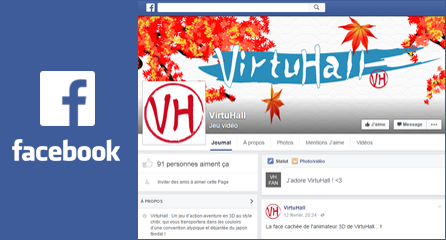
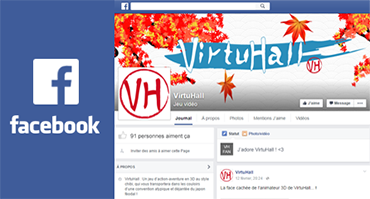
community

diff --git a/css/community.css b/css/community.css
@@ -85,6 +85,25 @@ h1 {
   margin-top: 1.5em;
   margin-bottom: 3em;
 }
+.main .sn-divs .sn-container {
+  display: inline-block;
+}
+.main .sn-divs .fb {
+  background-image: url('../assets/images/commu/fb-page.png');
+  background-size: contain;
+  background-repeat: no-repeat;
+  background-position: center;
+  width: 370px;
+  height: 199px;
+  display: inherit;
+}
+.main .sn-divs .img-hov {
+  position: relative;
+  background-color: dimgray;
+  width: 370px;
+  height: 199px;
+  display: none;
+}
 .main .sn-divs > div {
   margin-bottom: 2.1em;
   padding-right: 1.5em;

diff --git a/less/community.less b/less/community.less
@@ -35,6 +35,31 @@ h1{
 	.sn-divs{
 		margin-top: 1.5em;
 		margin-bottom: 3em;
+		
+		.sn-container{
+			display: inline-block;
+		}
+		
+		.fb{
+			background-image: url('../assets/images/commu/fb-page.png');
+			background-size: contain;
+			background-repeat: no-repeat;
+			background-position: center;
+			width: 370px;
+			height: 199px;
+			display: inherit;
+		}
+		
+		.img-hov{
+			position: relative;
+			background-color: dimgray;
+			width: 370px;
+			height: 199px;
+			display: none;
+
+		}
+
+		
 		&>div{
 			margin-bottom: 2.1em;
 			padding-right: 1.5em;

diff --git a/community.php b/community.php
@@ -35,21 +35,31 @@
 				<h2>Réseaux sociaux</h2>
 				<!-- LEFT -->
 				<section class="sn-divs column large-5">
-					<div>
-						<a href="https://www.facebook.com/VirtuHall-751664391636022/?fref=ts"><img src="assets/images/commu/fb-page-no-border.png" alt="Lien vers la page facebook de VirtuHall"></a>
+					<div class="sn-container">
+						<a href="https://www.facebook.com/VirtuHall-751664391636022/?fref=ts" class="fb">
+						<div class="img-hov"><p>Accéder à la page FB</p></div>
+					</a>
 					</div>
-					<div>
-						<img src="assets/images/commu/snap-page-no-border.png" alt="Rechercher le nom Virtuhall pour l'ajouter à vos contacts Snapchat">
+
+					<div class="sn-container">
+						<a href="https://www.facebook.com/VirtuHall-751664391636022/?fref=ts" class="fb">
+						<div class="img-hov"><p>Accéder à la page FB</p></div>
+					</a>
 					</div>
 				</section>
 
 				<!-- RIGHT -->
-				<section class="sn-divs column large-5">
-					<div>
-						<a href="https://twitter.com/virtuhall_game"><img src="assets/images/commu/twitter-page-no-border.png" alt="Lien vers la page Twitter de VirtuHall"></a>
+				 <section class="sn-divs column large-5">
+					<div class="sn-container">
+						<a href="https://www.facebook.com/VirtuHall-751664391636022/?fref=ts" class="fb">
+						<div class="img-hov"><p>Accéder à la page FB</p></div>
+					</a>
 					</div>
-					<div>
-						<img src="assets/images/commu/twitter-page.png" alt="">
+					
+					<div class="sn-container">
+						<a href="https://www.facebook.com/VirtuHall-751664391636022/?fref=ts" class="fb">
+						<div class="img-hov"><p>Accéder à la page FB</p></div>
+					</a>
 					</div>
 				</section>
 
